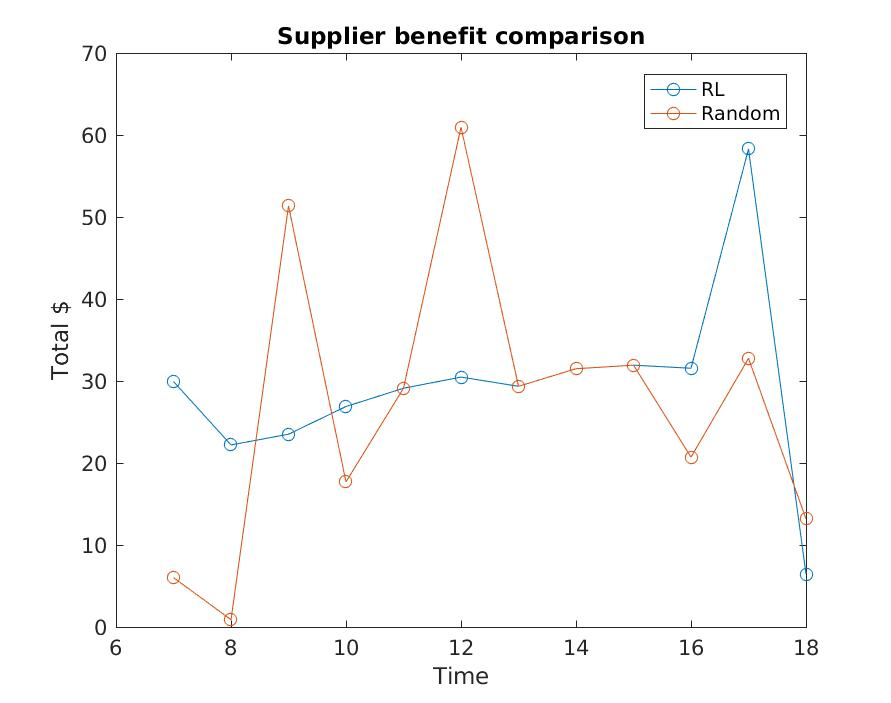
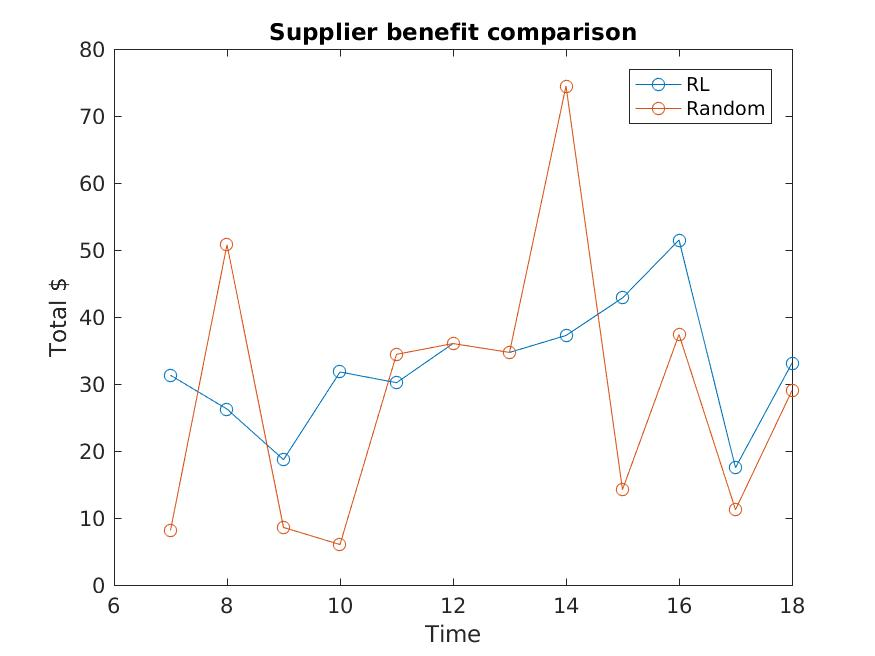
update

diff --git a/fig_drawer.m b/fig_drawer.m
@@ -1,19 +1,20 @@
-function cp = fig_drawer(supply, price, max_price, compute_time)
+function cp = fig_drawer(supply, price, max_supply, max_demand, compute_time)
     tmp = [];
     [B, I] = sort(price, 2, 'ascend');
-    disp(size(supply, 2));
+    %disp(size(supply, 2));
     for i=1:size(supply, 2)
         n = ceil(supply(I(i)));
         tmp = [tmp B(i) * ones(1, n)];
     end
     
     y = (0:0.5:max(price));
-    x = max_price * ones(1, size(y, 2));
-    
+    x = max_supply * ones(1, size(y, 2));
+    x_ = max_demand * ones(1, size(y, 2));
     figure();
     hold on;
     stairs(tmp, 'b');
     plot(x, y, 'r');
+    plot(x_, y, 'g');
     title(int2str(compute_time));
     xlabel('Energy (kW)')
     ylabel('quoted price');

diff --git a/test.m b/test.m
@@ -1,4 +1,4 @@
-% This is file that test our supplier agent
+% This is file that test our supplier and demander agent
 % Author: Chan-Wei Hu
 %=========================================================================
 
@@ -148,7 +148,8 @@ for day = 1:size(plants_day_dir, 1)-2
             end
 
             %disp(sum(quoted_price*x(2:plant_num+buy_num)));
-            %fig_drawer(plants_data(compute_time, :), quoted_price, x(1), compute_time);
+            fig_drawer(plants_data(compute_time, :), quoted_price, x(1), ...
+                total_power_dem(compute_time, :), compute_time);
         end
         if use_RL
             disp('Supplier RL average');

diff --git a/train.m b/train.m
@@ -89,7 +89,7 @@ supply_state_num = size(supply_state_edges,2) - 1;
 % Maintain a Q-factor for R-SMART learning
 sup_Q_factor = rand(plant_num, demand_state_num, supply_action_num);
 usr_Q_factor = rand(buy_num, supply_state_num, user_action_num);
-learning_rate = 0.1;
+learning_rate = 10;
 eta = 0.99;
 iteration = 20;
 
